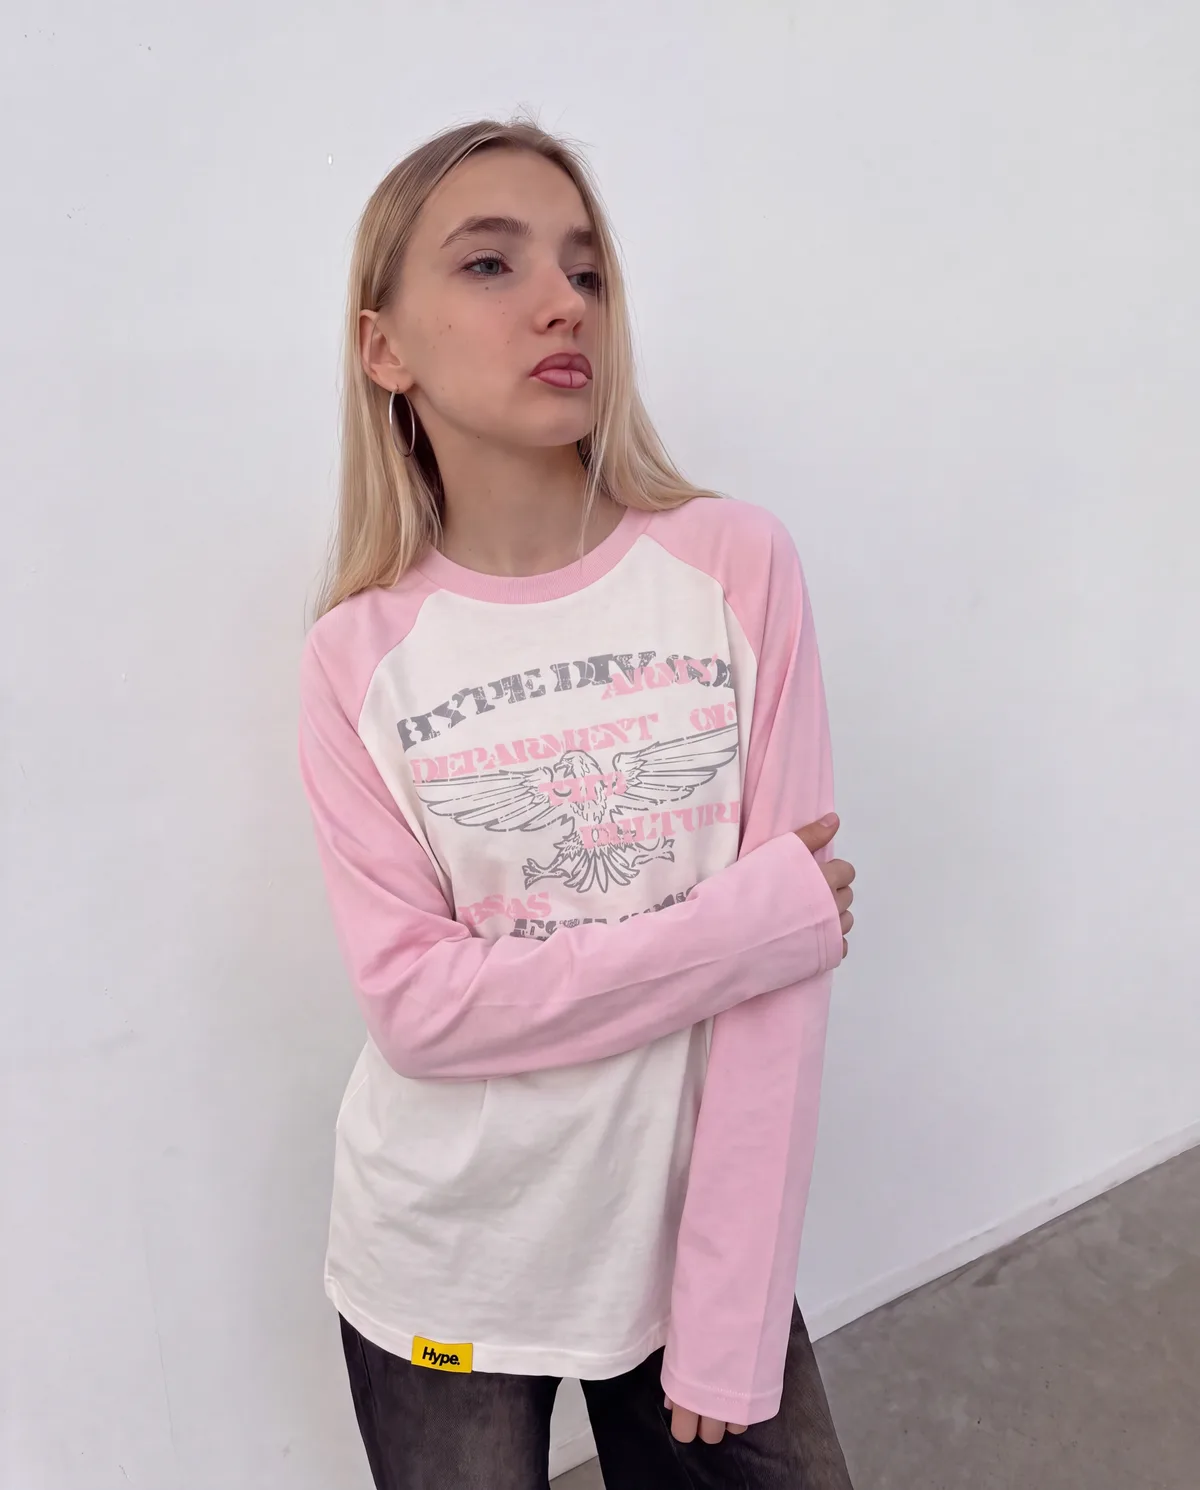
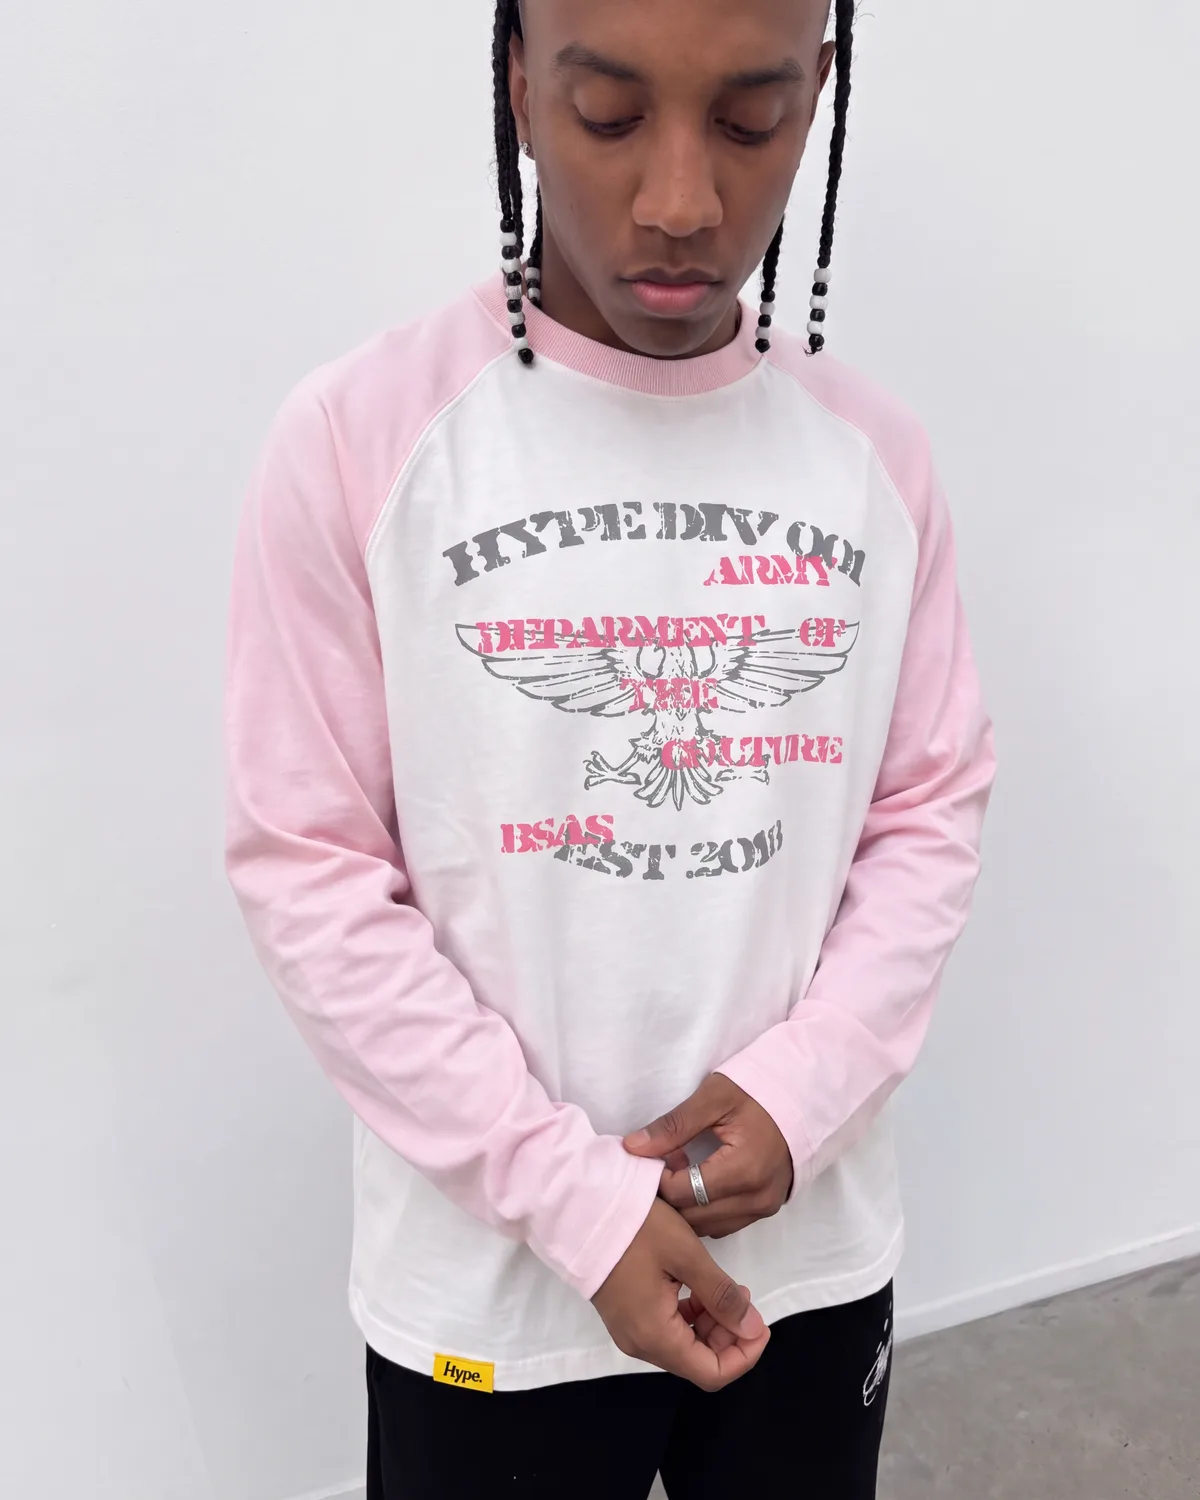
Próximamente SS27: los cuatro raglans en el carrusel del home
El carrusel "Lo que viene" de la celda Próximamente tenía dos fotos, las dos
del rosa, de antes de que se cargaran los colorways verdes. Quedan cuatro,
una por producto, alternando chico/chica y rosa/verde:

- HYPE CREATIVE GOODS — PINK
- DEPARTMENT OF CULTURE EAGLE — GREEN
- DEPARTMENT OF CULTURE EAGLE — PINK
- HYPE CREATIVE GOODS — GREEN

Mismo material que la ficha de cada uno, recortado 4:5 a 1200x1500 WebP
(57-92 KB) con prep-proximamente.js, igual formato que las dos que estaban.

Aparte, fuera del repo: en Woo se reordenaron las galerías de los cuatro
(3799, 3805, 3887, 3888) para que el mockup quede primero, como en el resto
de la colección — la portada de la card y de la ficha ahora es el mockup.

diff --git a/next-app/lib/ss27-home.ts b/next-app/lib/ss27-home.ts
@@ -108,10 +108,17 @@ export const SS27_LOOPS: Ss27Media[] = [
 ];
 
 // ── Próximamente ────────────────────────────────────────────────────────────
-/** Fotos de la celda "Próximamente" (al final de la grilla), en orden. */
+/**
+ * Fotos de la celda "Próximamente" (al final de la grilla), en orden: una por
+ * cada uno de los cuatro raglans que quedaron con el tag, alternando chico y
+ * chica y rosa y verde. Mismo material que la ficha de cada producto,
+ * recortado 4:5 con `Redes & Pauta/RAGLAN SS27/prep-proximamente.js`.
+ */
 export const SS27_PROXIMAMENTE: { src: string; alt: string }[] = [
   { src: '/ss27/home/proximamente-creative-goods.webp', alt: 'Hype Creative Goods Raglan Longsleeve rosa' },
+  { src: '/ss27/home/proximamente-doc-eagle-green.webp', alt: 'Department of Culture Eagle Raglan Longsleeve verde' },
   { src: '/ss27/home/proximamente-doc-eagle.webp', alt: 'Department of Culture Eagle Raglan Longsleeve rosa' },
+  { src: '/ss27/home/proximamente-creative-goods-green.webp', alt: 'Hype Creative Goods Raglan Longsleeve verde' },
 ];
 
 /**
